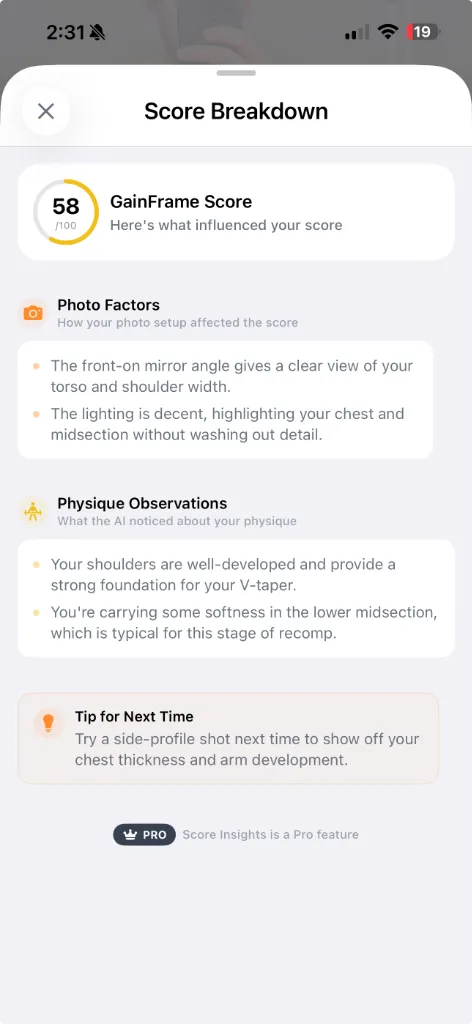
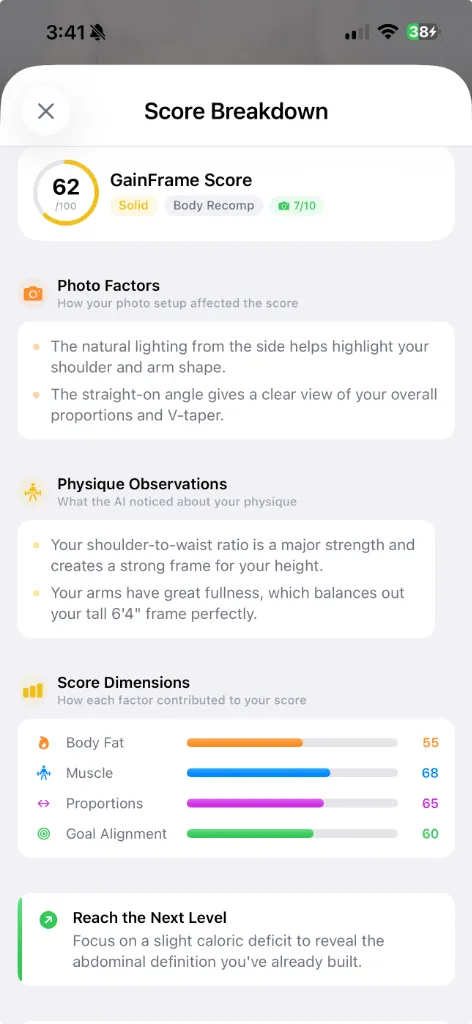
feat: update score insights blog with new screenshots

diff --git a/blog/why-body-fat-score-wrong/index.html b/blog/why-body-fat-score-wrong/index.html
@@ -150,6 +150,13 @@
                 <p>The problem isn't the AI. The problem is your photo setup changed between sessions, and the AI is
                     faithfully scoring what it actually sees.</p>
 
+                <!-- Score Card Screenshot -->
+                <div class="post-inline-screenshot scroll-reveal">
+                    <img src="assets/score-card.webp"
+                        alt="GainFrame Score card showing a 62/100 score with coaching tip and View Full Breakdown link"
+                        loading="lazy">
+                </div>
+
                 <hr class="post-divider">
 
                 <h2>The two things that affect your body fat score</h2>

diff --git a/go-live/mailchimp-new-features-email.md b/go-live/mailchimp-new-features-email.md
@@ -1,0 +1,73 @@
+# Mailchimp Email: New Features Announcement
+
+**Subject line:** Two new features just shipped
+
+**Preview text:** Score Insights + Guided Recording — here's what they do
+
+---
+
+## Paste-ready HTML:
+
+```html
+<!DOCTYPE html>
+<html>
+<head>
+<meta charset="utf-8">
+<meta name="viewport" content="width=device-width, initial-scale=1.0">
+<title>Two new features just shipped</title>
+</head>
+<body style="margin:0; padding:0; background-color:#ffffff; font-family: -apple-system, BlinkMacSystemFont, 'Segoe UI', Roboto, Helvetica, Arial, sans-serif;">
+
+<table role="presentation" width="100%" cellpadding="0" cellspacing="0" style="max-width:580px; margin:0 auto; padding:40px 20px;">
+<tr><td>
+
+<!-- Header -->
+<p style="font-size:14px; color:#999; margin:0 0 30px 0;">GainFrame Updates</p>
+
+<!-- Body -->
+<p style="font-size:16px; line-height:1.6; color:#1a1a1a; margin:0 0 16px 0;">Hey —</p>
+
+<p style="font-size:16px; line-height:1.6; color:#1a1a1a; margin:0 0 16px 0;">Two things shipped this week that I think you'll actually use.</p>
+
+<!-- Feature 1 -->
+<p style="font-size:16px; line-height:1.6; color:#1a1a1a; margin:0 0 6px 0;"><strong>1. Score Insights (Pro)</strong></p>
+
+<p style="font-size:16px; line-height:1.6; color:#1a1a1a; margin:0 0 16px 0;">Ever get a score and wonder why it dropped? Now every score shows you exactly what influenced the number — and whether it was a photo problem (bad lighting, weird angle) or an actual physique change. It also gives you a coaching tip for your next session.</p>
+
+<p style="font-size:16px; line-height:1.6; margin:0 0 24px 0;"><a href="https://gainframe.app/blog/why-body-fat-score-wrong/index.html?utm_source=mailchimp&amp;utm_medium=email&amp;utm_campaign=new-features" style="color:#1a1a1a; font-weight:600;">Read the full breakdown →</a></p>
+
+<!-- Feature 2 -->
+<p style="font-size:16px; line-height:1.6; color:#1a1a1a; margin:0 0 6px 0;"><strong>2. Guided Recording (Daily Check-In)</strong></p>
+
+<p style="font-size:16px; line-height:1.6; color:#1a1a1a; margin:0 0 16px 0;">Set your phone down, hit record, and the app guides you through all your poses hands-free. It captures automatically when you hold still. The whole thing takes about 60 seconds. No more timer sprinting.</p>
+
+<p style="font-size:16px; line-height:1.6; margin:0 0 24px 0;"><a href="https://gainframe.app/blog/how-to-take-progress-photos-fast/index.html?utm_source=mailchimp&amp;utm_medium=email&amp;utm_campaign=new-features" style="color:#1a1a1a; font-weight:600;">See how it works →</a></p>
+
+<!-- Divider -->
+<hr style="border:none; border-top:1px solid #e5e5e5; margin:24px 0;">
+
+<!-- Sign-off -->
+<p style="font-size:16px; line-height:1.6; color:#1a1a1a; margin:0 0 4px 0;">That's it for this week. More stuff on the way.</p>
+
+<p style="font-size:16px; line-height:1.6; color:#1a1a1a; margin:0 0 24px 0;">— Michael</p>
+
+<!-- Footer -->
+<p style="font-size:12px; color:#999; line-height:1.5; margin:30px 0 0 0;">
+You're getting this because you signed up at gainframe.app.<br>
+<a href="*|UNSUB|*" style="color:#999;">Unsubscribe</a>
+</p>
+
+</td></tr>
+</table>
+
+</body>
+</html>
+```
+
+---
+
+## Notes
+- CTAs link to blog posts (not App Store — app not live yet)
+- Uses `*|UNSUB|*` Mailchimp merge tag for unsubscribe
+- Plain-text style, no images, no heavy branding
+- "Founder to friend" tone as per skill guidelines

diff --git a/.agent/skills/blog-post-generator/SKILL.md b/.agent/skills/blog-post-generator/SKILL.md
@@ -218,10 +218,34 @@ When generating the email HTML, use this base template. Replace the `<!-- CONTEN
 </html>
 ```
 
+### UTM Tracking (Mandatory)
+
+All links in emails MUST include UTM parameters for Google Analytics attribution. Use this format:
+
+```
+https://gainframe.app/blog/[slug]/index.html?utm_source=mailchimp&utm_medium=email&utm_campaign=[campaign-name]
+```
+
+- `utm_source` — always `mailchimp`
+- `utm_medium` — always `email`
+- `utm_campaign` — a short, descriptive slug for this email (e.g., `new-features`, `welcome-follow`, `weekly-update`)
+
+In HTML, encode `&` as `&amp;` within `href` attributes.
+
+### Mailchimp Merge Tags
+
+Use these merge tags in the HTML template — Mailchimp replaces them at send time:
+
+| Tag | Purpose |
+|-----|---------|
+| `*|UNSUB|*` | **Required.** One-click unsubscribe URL. All campaigns must include this. |
+| `*|FNAME|*` | First name personalization (falls back to empty if not set). |
+| `*|EMAIL|*` | Subscriber's email address. |
+
 ### Workflow When User Asks for an Email
 
 1. **Ask what the email is about.** New feature? Blog post announcement? Launch update?
 2. **Draft the plain-text body first.** Show the user the raw copy before wrapping it in HTML. Get approval on the words.
-3. **Generate the HTML.** Slot the approved copy into the template above using proper `<p>` tags with `style="margin:0 0 16px 0;"` for spacing. Use `<strong>` for bold. Use inline `<a>` tags for links.
+3. **Generate the HTML.** Slot the approved copy into the template above using proper `<p>` tags with `style="margin:0 0 16px 0;"` for spacing. Use `<strong>` for bold. Use inline `<a>` tags for links. **All links must include UTM parameters.**
 4. **Output the complete HTML** in a fenced code block so the user can copy-paste it directly into Mailchimp's HTML editor.
 5. **Remind the user** to preview in Mailchimp and send a test email to themselves before sending.
